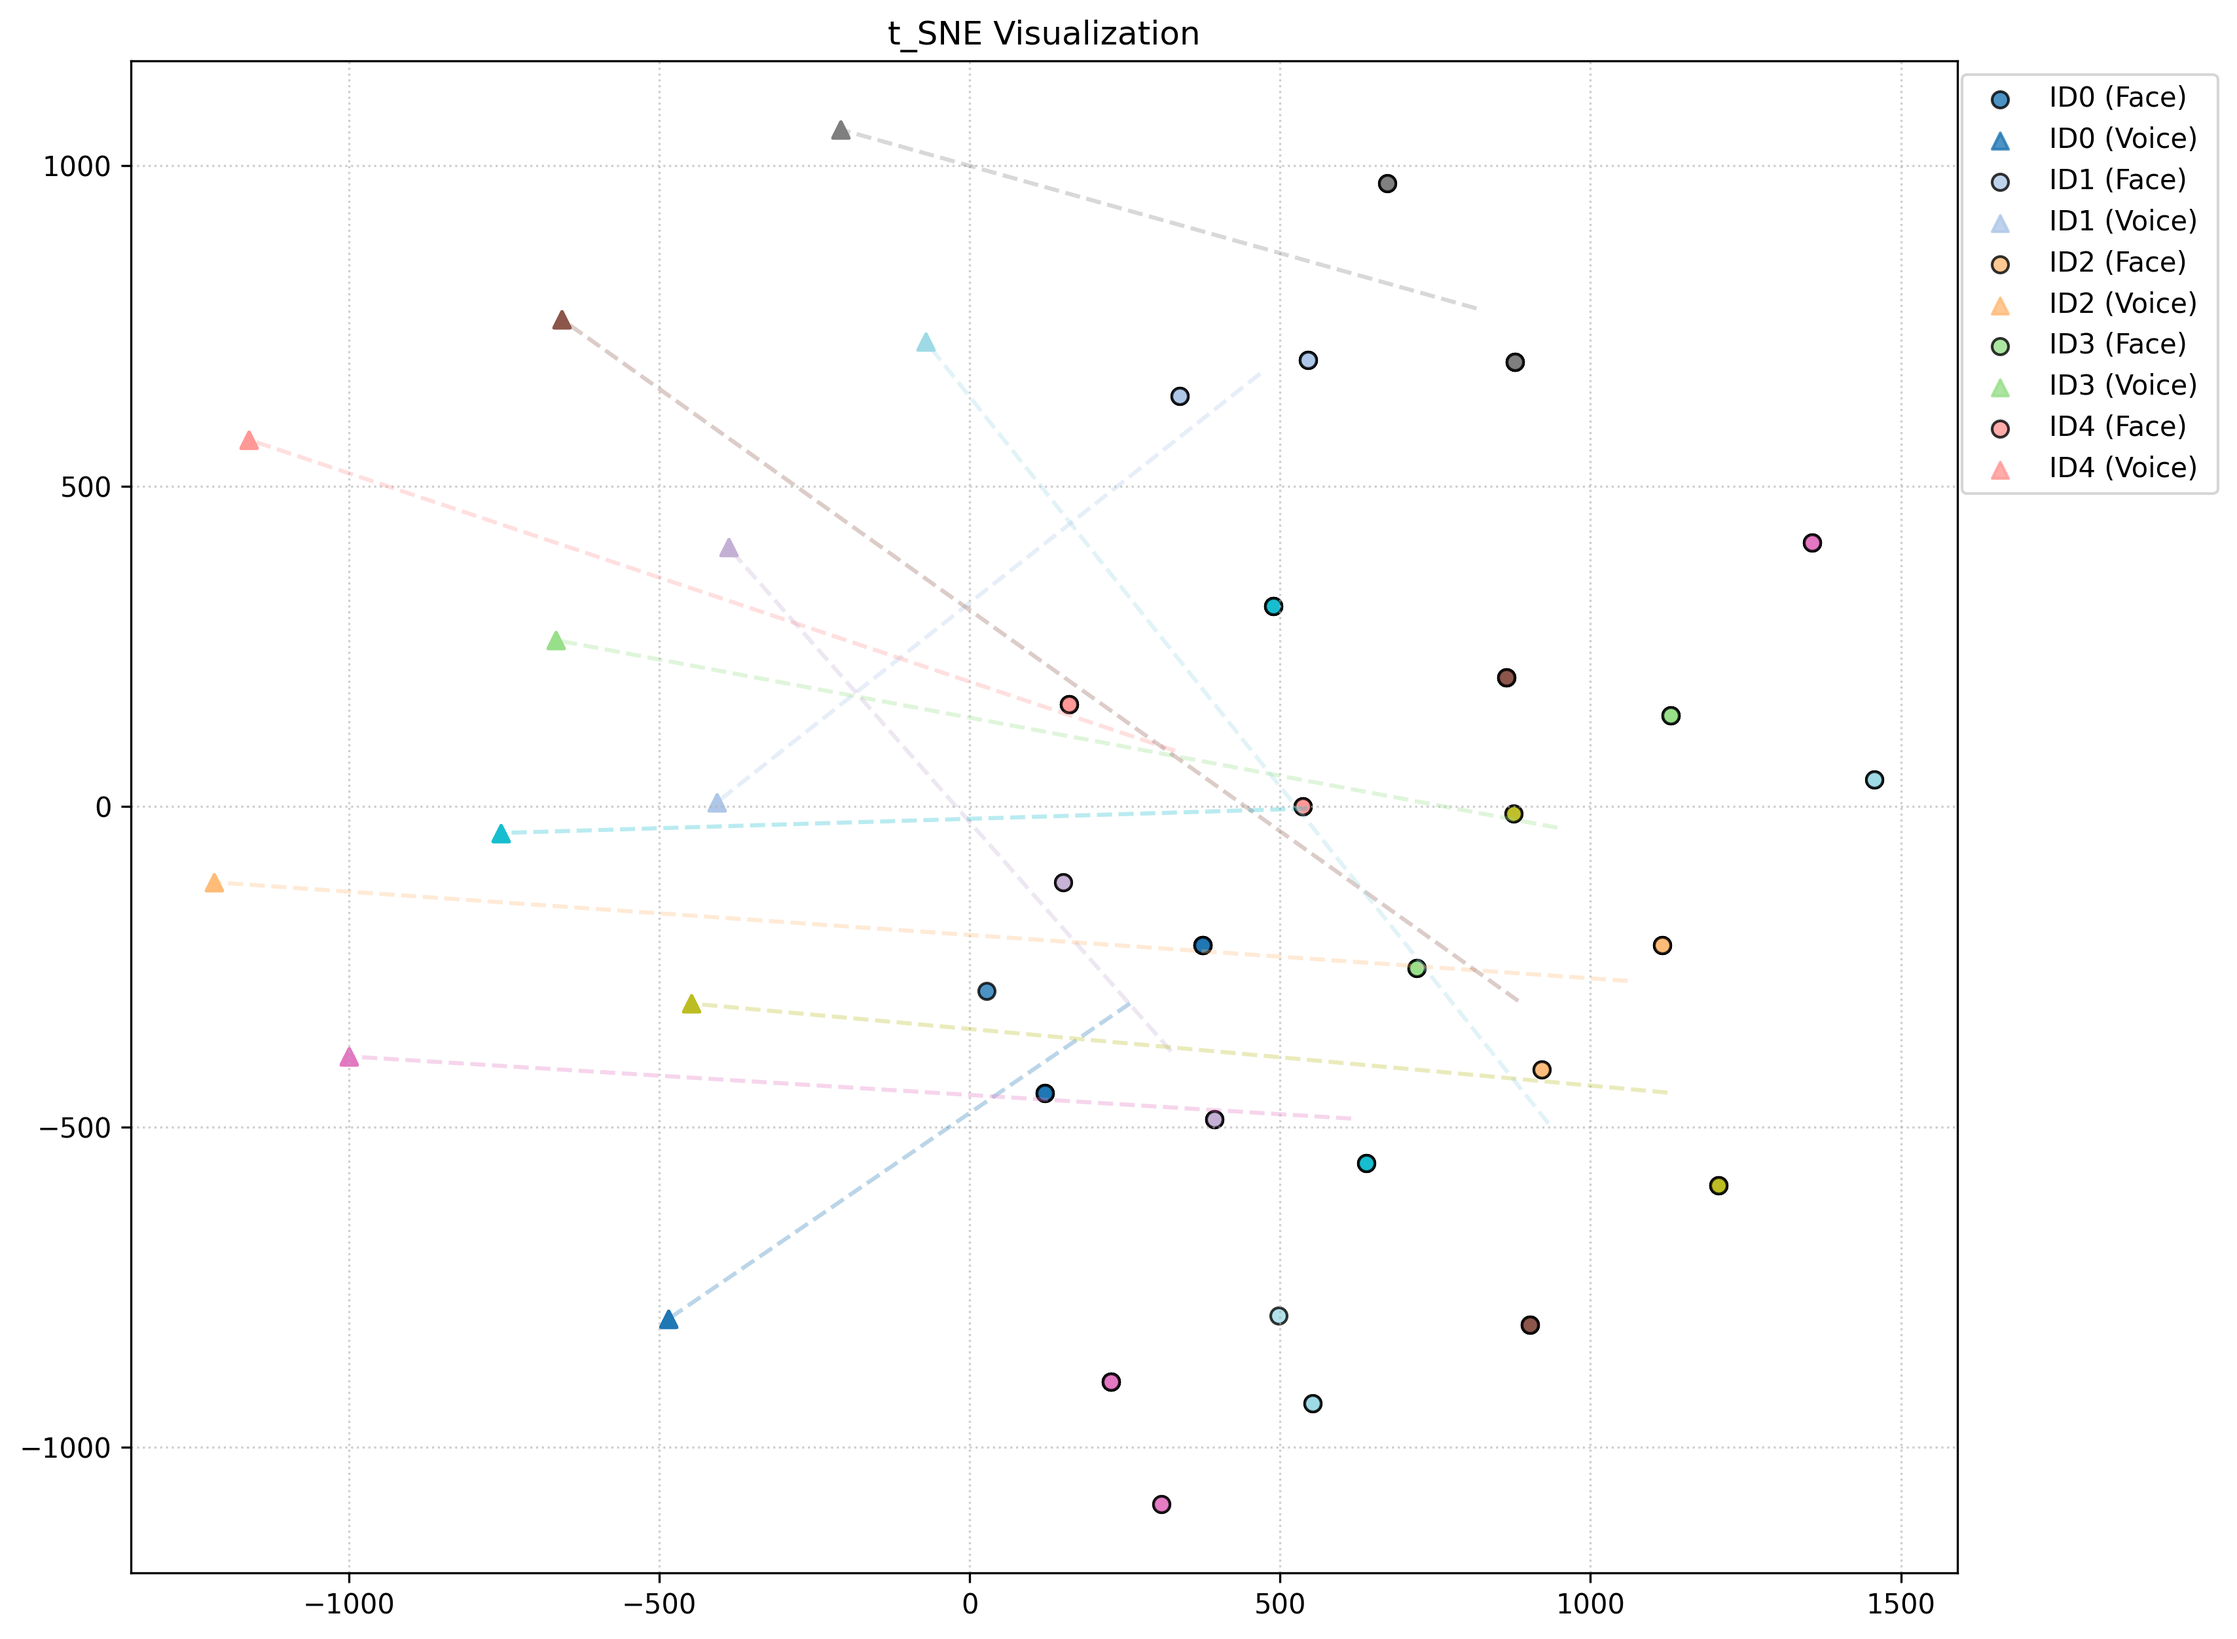
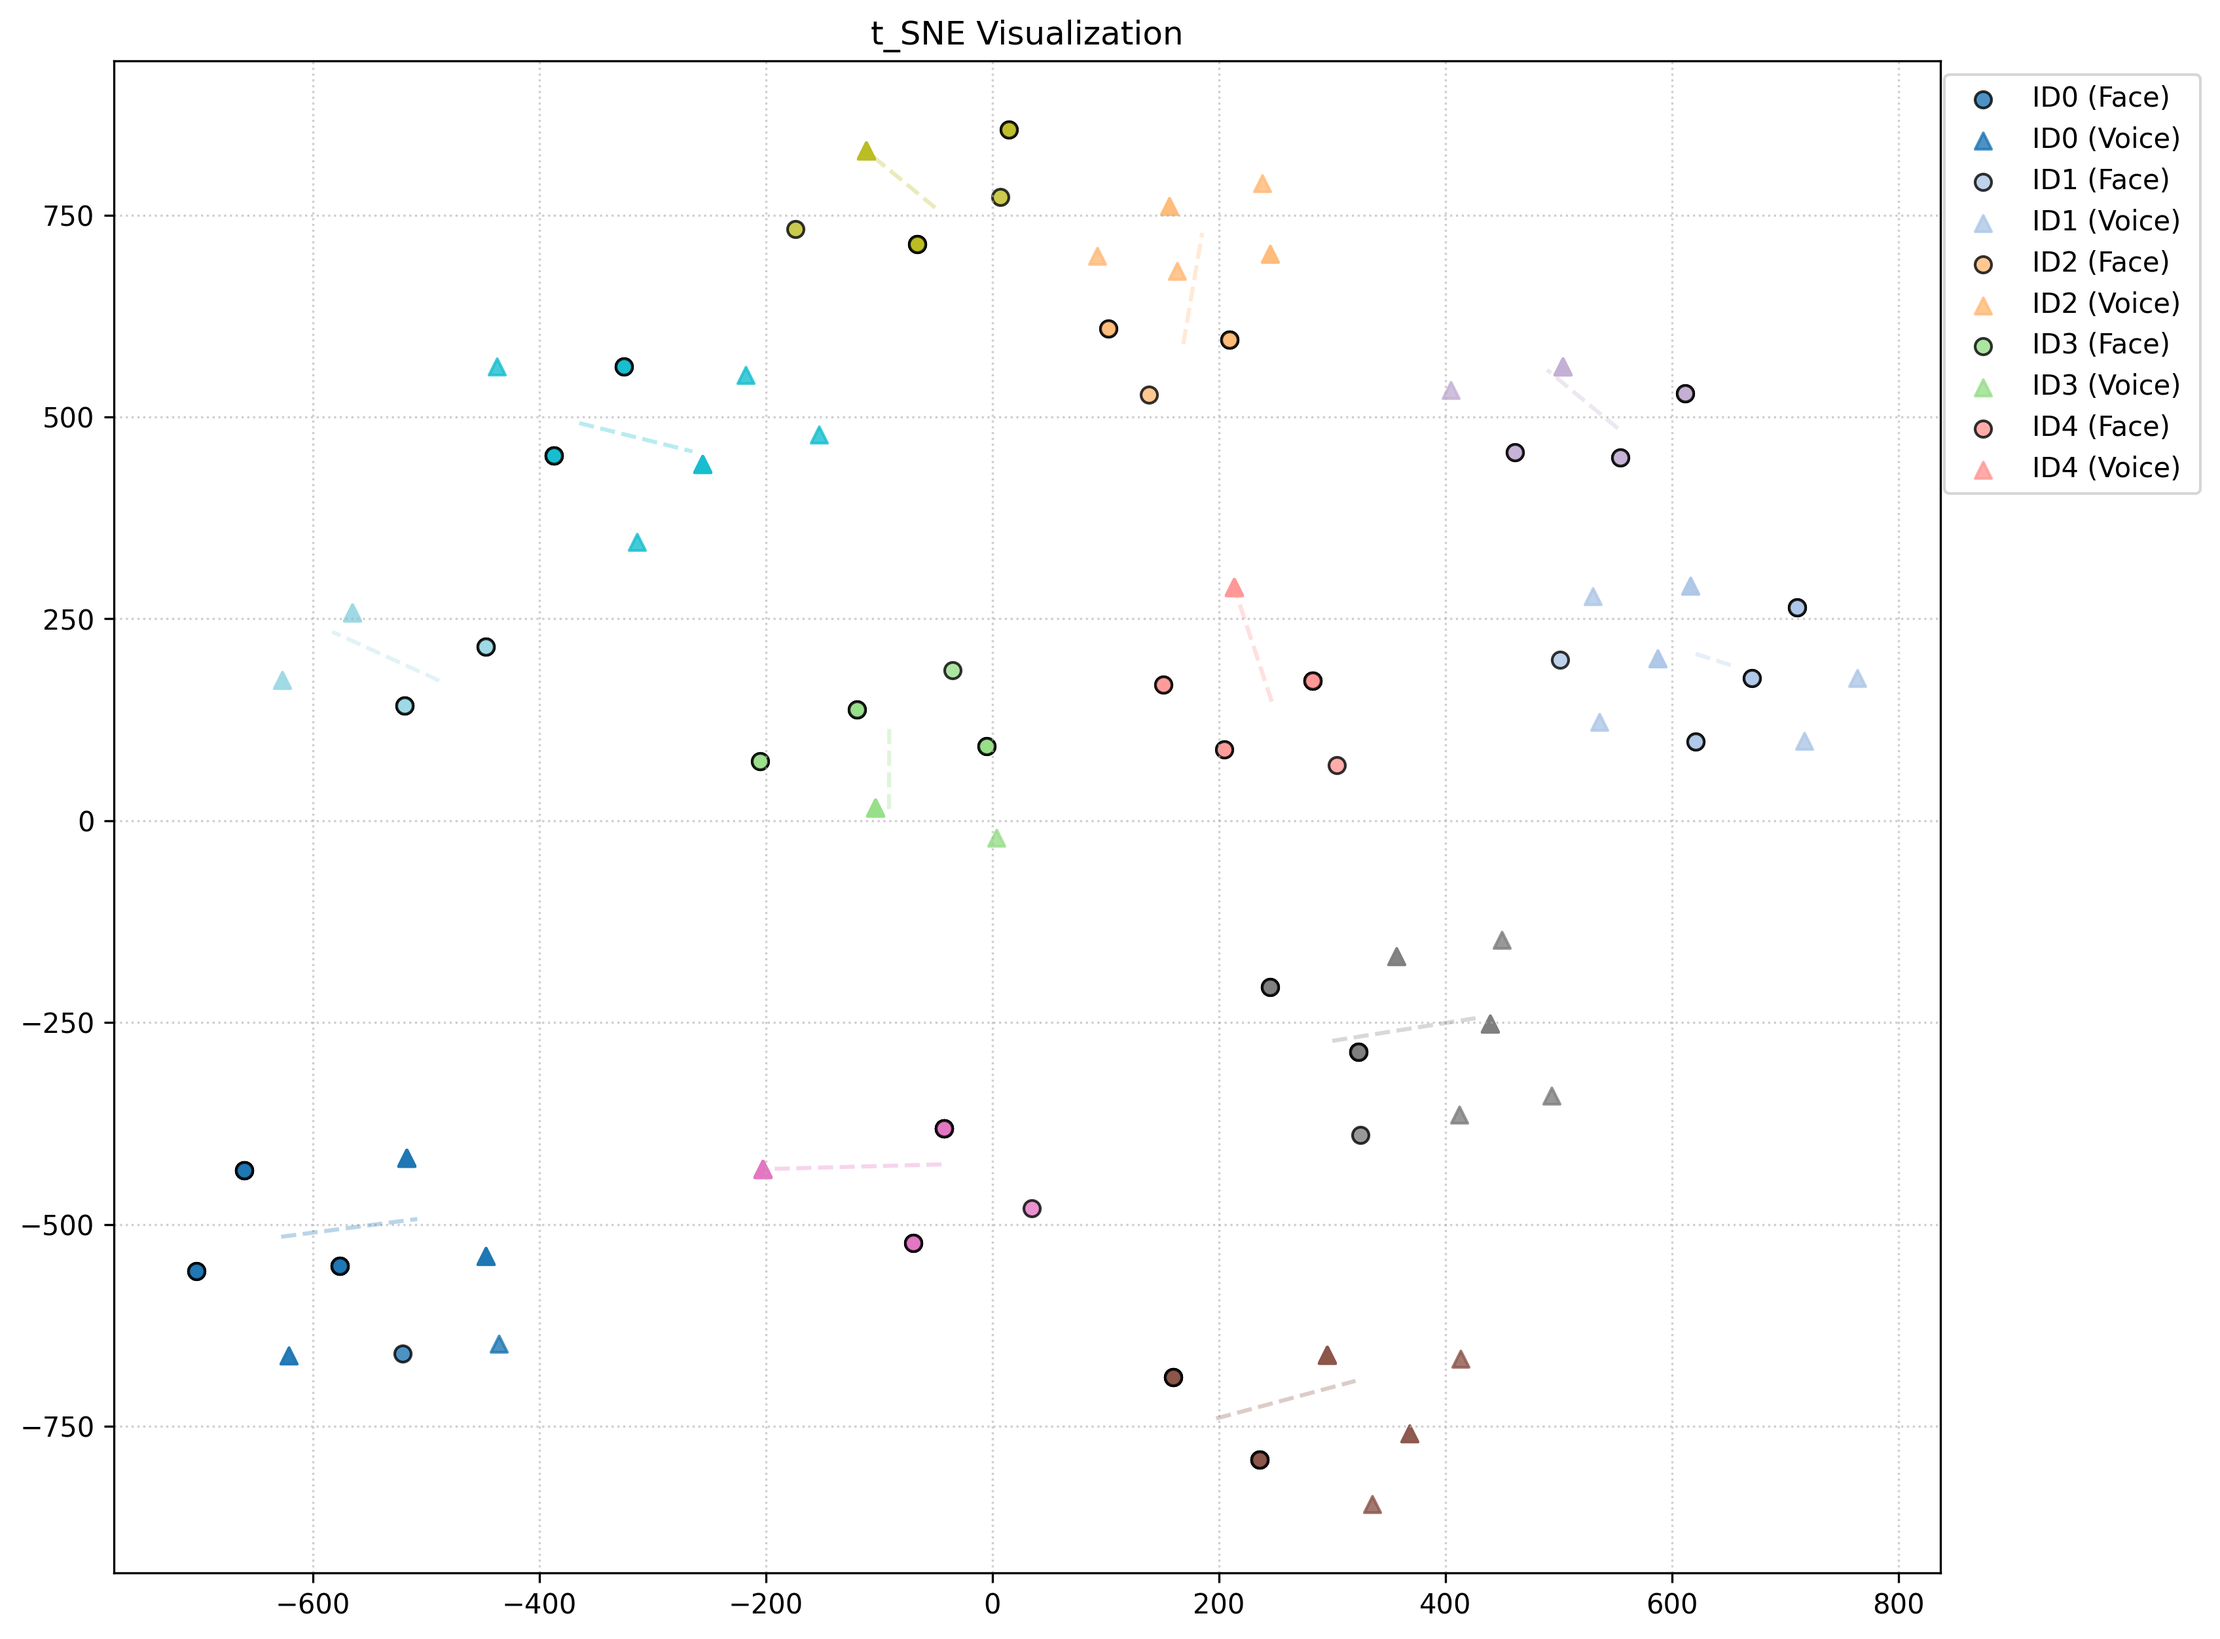
in train.py I fixed a critical bug, the voice and face translator were previously excluded  from the optimizer, meaning the optimizer wasnt learning, it was actually taking just the final guess from the frozen weights. Updated optim.Adam(model.parameters(), ...) to optim.Adam(params_to_train, ...), 

diff --git a/train.py b/train.py
@@ -32,58 +32,57 @@ if __name__ == "__main__":
     train_size = int(0.8 * len(full_dataset)) # 80 percent for training pile
     test_size = len(full_dataset) - train_size # 20 percent for testing pile
     
-    generator = torch.Generator().manual_seed(42)  # locks the random shuffle so we always get the exact same split
+    generator = torch.Generator().manual_seed(42) 
     train_dataset, test_dataset = torch.utils.data.random_split(full_dataset, [train_size, test_size], generator=generator)
 
     train_loader = DataLoader(train_dataset, batch_size=BATCH_SIZE, shuffle=True)
     test_loader = DataLoader(test_dataset, batch_size=BATCH_SIZE, shuffle=False)
 
-    model = JointClassifier(num_classes=1200,embedding_dim=512).to(DEVICE) # spawn the main classifier with the upgraded 512d brain
-    face_translator = ModalityTranslator(input_dim = 128, output_dim = 512).to(DEVICE) # face detective upgrading 128 to 512
-    voice_translator = ModalityTranslator(input_dim = 128, output_dim = 512).to(DEVICE) # voice detective upgrading 128 to 512
+    model = JointClassifier(num_classes=1200,embedding_dim=512).to(DEVICE) 
+    face_translator = ModalityTranslator(input_dim = 128, output_dim = 512).to(DEVICE) 
+    voice_translator = ModalityTranslator(input_dim = 128, output_dim = 512).to(DEVICE) 
     
     params_to_train = list(model.parameters()) + list(face_translator.parameters()) + list(voice_translator.parameters()) # group all the brains together
-    optimizer = optim.Adam(model.parameters(), lr=0.001) # sets up the learning rate
+    optimizer = optim.Adam(params_to_train, lr=0.001) 
     criterion = nn.CrossEntropyLoss() # the math that calculates if we guessed the name right
-    early_stopper = EarlyStopping(patience=15) # giving the bigger brain more patience to settle down
-
+    early_stopper = EarlyStopping(patience=15)
     for epoch in range(EPOCHS):
         model.train() # turn on learning mode for classifier
-        face_translator.train()  # turn on learning mode for face detective
-        voice_translator.train() # turn on learning mode for voice detective
+        face_translator.train() 
+        voice_translator.train() 
         total_loss = 0
         
         for face_emb, voice_emb, labels in train_loader:
-            face_emb, voice_emb, labels = face_emb.to(DEVICE), voice_emb.to(DEVICE), labels.to(DEVICE) # push to gpu
+            face_emb, voice_emb, labels = face_emb.to(DEVICE), voice_emb.to(DEVICE), labels.to(DEVICE)
             
             # translate the frozen vectors into aligned vectors 
-            face_emb = face_translator(face_emb) # push face through the 512d doorway
-            voice_emb = voice_translator(voice_emb) # push voice through the 512d doorway
+            face_emb = face_translator(face_emb)
+            voice_emb = voice_translator(voice_emb) 
             
             #calculate Alignment Loss
             align_loss = cross_modal_alignment_loss(face_emb, voice_emb, labels) # penalty if face and voice point in diff directions
             
-            fused_emb = paeff_fusion(face_emb,voice_emb) # smart mix the two vectors together
-            fused_emb = torch.nn.functional.normalize(fused_emb, p=2, dim=1) # normalize so the math doesn't explode
+            fused_emb = paeff_fusion(face_emb,voice_emb) 
+            fused_emb = torch.nn.functional.normalize(fused_emb, p=2, dim=1) # normalize 
             
             optimizer.zero_grad() # wipe the memory from the last batch
-            logits = model(fused_emb) # bouncer makes a guess
+            logits = model(fused_emb) 
             
         
             class_loss = criterion(logits, labels.view(-1)) # penalty for guessing the wrong name
             ortho_loss = orthogonal_projection_loss(fused_emb, labels) # penalty if different people are too close together in math space
 
-            if epoch == 0 and total_loss == 0:  # print a snapshot of the very first batch
+            if epoch == 0 and total_loss == 0:  
                 print(f"Class Loss: {class_loss.item():.4f}")
                 print(f"Ortho Loss: {ortho_loss.item():.4f}")
                 print(f"Align Loss: {align_loss.item():.4f}")
               
                 
             
-            loss = class_loss + (0.1*ortho_loss) + (30.0 * align_loss) # master grading rubric - turned down side quests to 0.1 so it focuses on names
-            
-            loss.backward() # send the penalties backwards through the network
-            optimizer.step() # actually update the weights/brains
+            loss = class_loss + (0.1*ortho_loss) + (10.0 * align_loss)
+
+            loss.backward() 
+            optimizer.step() 
             total_loss += loss.item()
 
         
@@ -96,12 +95,12 @@ if __name__ == "__main__":
             print("Early stopping triggered")
             break
             
-        if (epoch + 1) % 20 == 0: # save a backup every 20 epochs just in case
+        if (epoch + 1) % 20 == 0:
             torch.save(model.state_dict(), f"checkpoint_epoch_{epoch+1}.pth")
 
     checkpoint = {
-        'classifier': model.state_dict(), # pack classifier brain
-        'face_translator': face_translator.state_dict(), # pack face translator brain
-        'voice_translator': voice_translator.state_dict() # pack voice translator brain
+        'classifier': model.state_dict(), 
+        'face_translator': face_translator.state_dict(), 
+        'voice_translator': voice_translator.state_dict() 
     }
-    torch.save(checkpoint, "final_model.pth") # save the fully packed suitcase for test.py
+    torch.save(checkpoint, "final_model.pth")

diff --git a/test.py b/test.py
@@ -23,7 +23,7 @@ def test_model():
     face_translator = ModalityTranslator(input_dim=128, output_dim=512).to(DEVICE) # spawn the upgraded 512d 
     voice_translator = ModalityTranslator(input_dim=128, output_dim=512).to(DEVICE) # spawn the upgraded 512d 
 
-    checkpoint = torch.load("final_model_alignment=10.pth", map_location=DEVICE) # open the suitcase with all our saved brains
+    checkpoint = torch.load("final_model_modality_translators_fixed.pth", map_location=DEVICE) # open the suitcase with all our saved brains
     model.load_state_dict(checkpoint['classifier']) # upload the classifier memories
     face_translator.load_state_dict(checkpoint['face_translator']) # upload the face translator memories
     voice_translator.load_state_dict(checkpoint['voice_translator']) # upload the voice translator memories

diff --git a/t_sne.py b/t_sne.py
@@ -20,7 +20,7 @@ def visualize_tsne():
     face_translator = ModalityTranslator(input_dim = 128, output_dim = 512).to(DEVICE)
     voice_translator = ModalityTranslator(input_dim = 128, output_dim = 512).to(DEVICE)
 
-    checkpoint = torch.load("final_model_alignment=10.pth", map_location=DEVICE)
+    checkpoint = torch.load("final_model_modality_translators_fixed.pth", map_location=DEVICE)
     face_translator.load_state_dict(checkpoint['face_translator'])
     voice_translator.load_state_dict(checkpoint['voice_translator'])
 
@@ -62,7 +62,8 @@ def visualize_tsne():
 
     tsne = TSNE(
         n_components=2, 
-        perplexity=50,       
+        perplexity=50,
+        early_exaggeration = 24.0,       
         metric='cosine',     
         init='pca',          
         learning_rate='auto', 

diff --git a/utils.py b/utils.py
@@ -32,7 +32,7 @@ def orthogonal_projection_loss(embeddings, labels):
     negLoss = torch.sum(maskNeg * torch.abs(simMatrix)) / (maskNeg.sum() + 1e-6) # penalty if different people are intruding on each other's space
     return posLoss + negLoss
     
-def cross_modal_alignment_loss(face_embeddings, voice_embeddings, labels, temperature = 0.05):
+def cross_modal_alignment_loss(face_embeddings, voice_embeddings, labels, temperature = 0.1):
     # this function will align our face and voice embeddings before fusion. pulls embeddings which are from same identity together and pushes diff ones apart
 
     # cosine similarity
